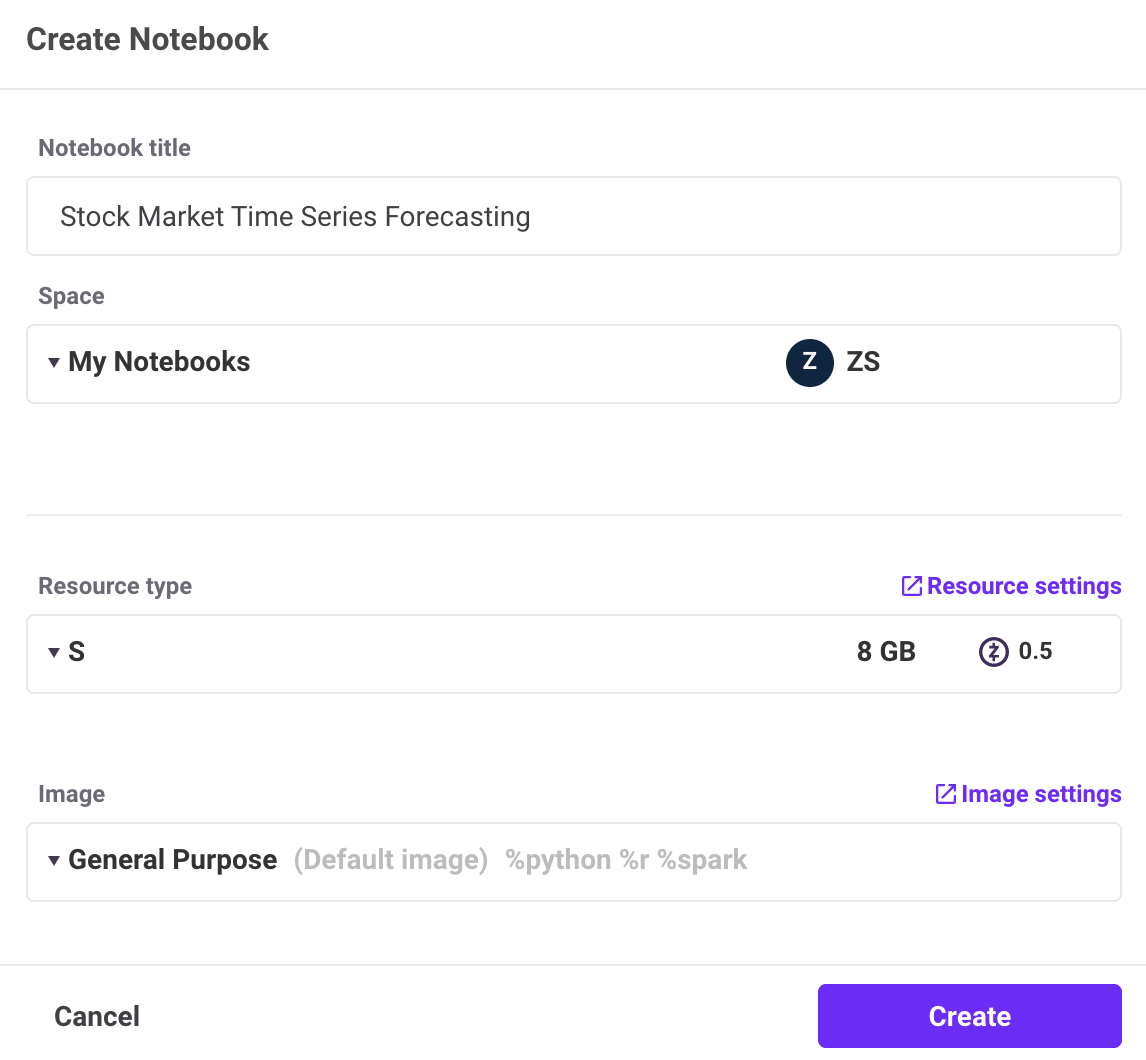
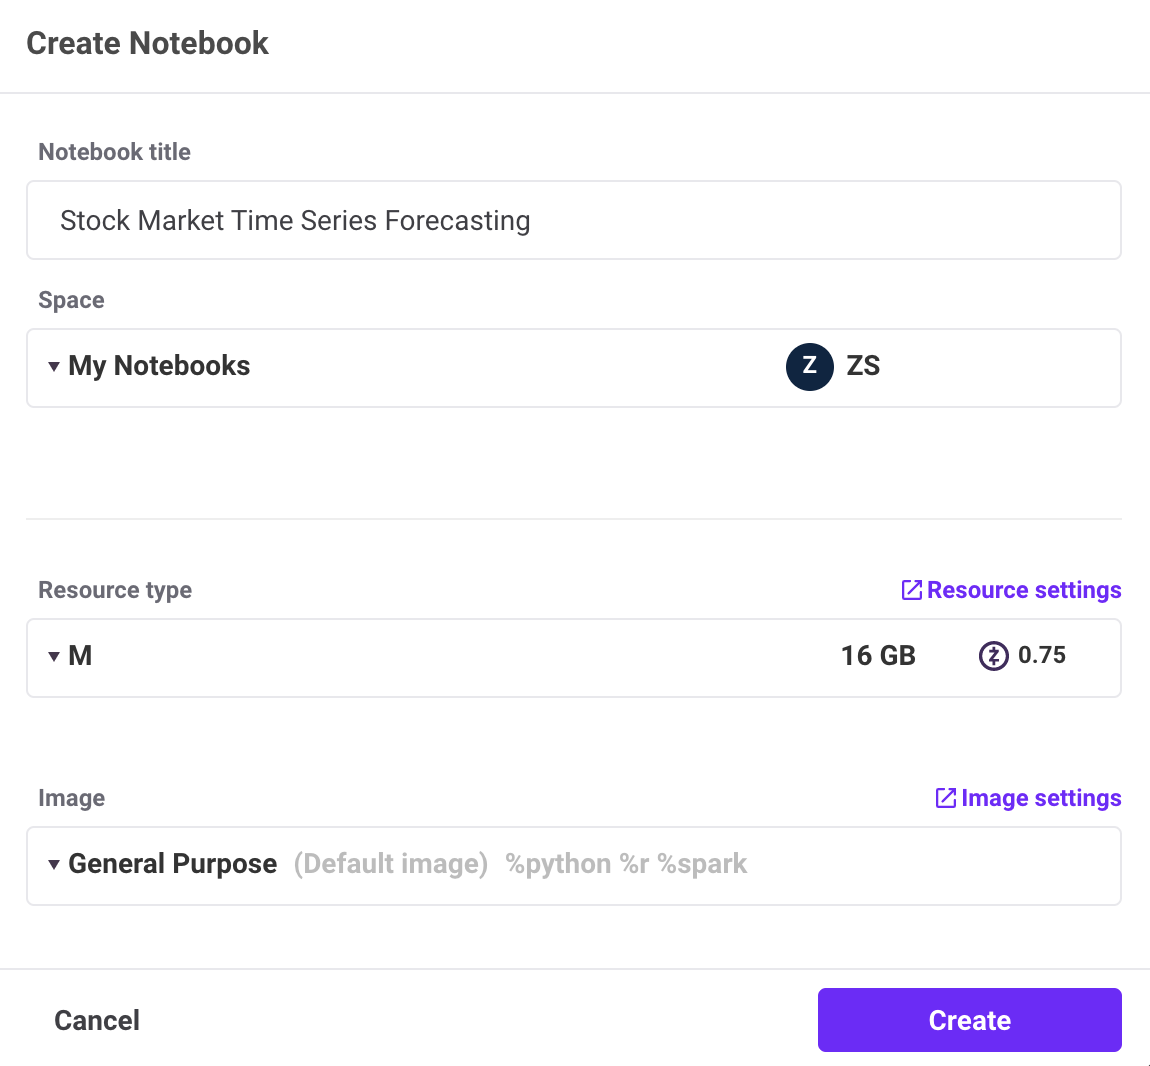
Updated Create Notebook image and instruction to select medium or large resource type

diff --git a/site/devlabs/time_series_forecasting_with_zepl.md b/site/devlabs/time_series_forecasting_with_zepl.md
@@ -101,7 +101,8 @@ Duration: 5
 
 1. From any screen, Select _Add New_ (upper left)
 2. Select _+ New Notebook_
-3. Enter Notebook Details
+3. Enter Notebook Details:
+ * Select a __Medium (16GB) or Large (32GB)__ Resource
 </br><img src="./assets/zepl_create_new_notebook.png" width="550" />
 
 ### Understanding Zepl's Notebook Options
